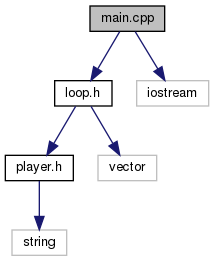
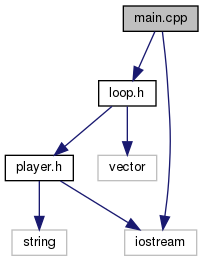
Update gh-pages to output generated at b504b8e

diff --git a/player_8h_source.html b/player_8h_source.html
@@ -64,14 +64,14 @@ $(function() {
 <div class="title">player.h</div>  </div>
 </div><!--header-->
 <div class="contents">
-<div class="fragment"><div class="line"><a name="l00001"></a><span class="lineno">    1</span>&#160;</div><div class="line"><a name="l00002"></a><span class="lineno">    2</span>&#160;<span class="preprocessor">#pragma once</span></div><div class="line"><a name="l00003"></a><span class="lineno">    3</span>&#160;</div><div class="line"><a name="l00004"></a><span class="lineno">    4</span>&#160;<span class="preprocessor">#include &lt;string&gt;</span></div><div class="line"><a name="l00005"></a><span class="lineno">    5</span>&#160;</div><div class="line"><a name="l00027"></a><span class="lineno"><a class="line" href="classPlayer.html">   27</a></span>&#160;<span class="keyword">class </span><a class="code" href="classPlayer.html">Player</a></div><div class="line"><a name="l00028"></a><span class="lineno">   28</span>&#160;{</div><div class="line"><a name="l00032"></a><span class="lineno">   32</span>&#160;    std::string name;</div><div class="line"><a name="l00033"></a><span class="lineno">   33</span>&#160;</div><div class="line"><a name="l00037"></a><span class="lineno">   37</span>&#160;    <span class="keywordtype">unsigned</span> <span class="keywordtype">short</span> hp;</div><div class="line"><a name="l00038"></a><span class="lineno">   38</span>&#160;</div><div class="line"><a name="l00042"></a><span class="lineno">   42</span>&#160;    <span class="keywordtype">unsigned</span> <span class="keywordtype">short</span> damage;</div><div class="line"><a name="l00043"></a><span class="lineno">   43</span>&#160;</div><div class="line"><a name="l00047"></a><span class="lineno">   47</span>&#160;    <span class="keywordtype">float</span> attackCooldown;</div><div class="line"><a name="l00048"></a><span class="lineno">   48</span>&#160;</div><div class="line"><a name="l00052"></a><span class="lineno">   52</span>&#160;    <span class="keyword">mutable</span> <span class="keywordtype">unsigned</span> <span class="keywordtype">short</span> attackCounter = 0;</div><div class="line"><a name="l00053"></a><span class="lineno">   53</span>&#160;</div><div class="line"><a name="l00054"></a><span class="lineno">   54</span>&#160;<span class="keyword">public</span>:</div><div class="line"><a name="l00063"></a><span class="lineno">   63</span>&#160;    <span class="keyword">explicit</span> <a class="code" href="classPlayer.html#a940a6646b327cc6fdc839a0c6e254c80">Player</a>(<span class="keyword">const</span> std::string &amp;name, <span class="keywordtype">unsigned</span> <span class="keywordtype">short</span> hp, <span class="keywordtype">unsigned</span> <span class="keywordtype">short</span> damage, <span class="keywordtype">float</span> attackCooldown);</div><div class="line"><a name="l00064"></a><span class="lineno">   64</span>&#160;</div><div class="line"><a name="l00073"></a><span class="lineno">   73</span>&#160;    <span class="keyword">static</span> <a class="code" href="classPlayer.html">Player</a> <a class="code" href="classPlayer.html#af42475c171bfebfb05178212278a2d6b">parseUnit</a>(<span class="keyword">const</span> std::string &amp;fileName);</div><div class="line"><a name="l00074"></a><span class="lineno">   74</span>&#160;</div><div class="line"><a name="l00078"></a><span class="lineno">   78</span>&#160;    <span class="keywordtype">void</span> <a class="code" href="classPlayer.html#afbfc37fe51d3854e241c64fee3fa1545">Print</a>() <span class="keyword">const</span>;</div><div class="line"><a name="l00079"></a><span class="lineno">   79</span>&#160;</div><div class="line"><a name="l00084"></a><span class="lineno"><a class="line" href="classPlayer.html#acdfeb90811d8a0c826d526b97eeb0d94">   84</a></span>&#160;    <span class="keyword">const</span> std::string &amp;<a class="code" href="classPlayer.html#acdfeb90811d8a0c826d526b97eeb0d94">GetName</a>()<span class="keyword"> const </span>{ <span class="keywordflow">return</span> name; };</div><div class="line"><a name="l00085"></a><span class="lineno">   85</span>&#160;</div><div class="line"><a name="l00090"></a><span class="lineno"><a class="line" href="classPlayer.html#aa69264f8bbe4ec943df625beb4ef74d1">   90</a></span>&#160;    <span class="keyword">const</span> <span class="keywordtype">short</span> <a class="code" href="classPlayer.html#aa69264f8bbe4ec943df625beb4ef74d1">GetHP</a>()<span class="keyword"> const </span>{ <span class="keywordflow">return</span> hp; };</div><div class="line"><a name="l00091"></a><span class="lineno">   91</span>&#160;</div><div class="line"><a name="l00099"></a><span class="lineno">   99</span>&#160;    <a class="code" href="classPlayer.html">Player</a> <a class="code" href="classPlayer.html#af678cc1b99baa17c5cc429467f8667d2">DuelWith</a>(<a class="code" href="classPlayer.html">Player</a> *other);</div><div class="line"><a name="l00100"></a><span class="lineno">  100</span>&#160;</div><div class="line"><a name="l00108"></a><span class="lineno">  108</span>&#160;    <span class="keyword">static</span> <a class="code" href="classPlayer.html">Player</a> *<a class="code" href="classPlayer.html#a6dd1bbcc1db65fce465819c1f4f4dec5">GetNextAttacker</a>(<a class="code" href="classPlayer.html">Player</a> *prev, <a class="code" href="classPlayer.html">Player</a> *other);</div><div class="line"><a name="l00109"></a><span class="lineno">  109</span>&#160;</div><div class="line"><a name="l00110"></a><span class="lineno">  110</span>&#160;<span class="keyword">private</span>:</div><div class="line"><a name="l00118"></a><span class="lineno">  118</span>&#160;    <span class="keywordtype">bool</span> hit(<a class="code" href="classPlayer.html">Player</a> *otherPlayer) <span class="keyword">const</span>;</div><div class="line"><a name="l00119"></a><span class="lineno">  119</span>&#160;</div><div class="line"><a name="l00124"></a><span class="lineno">  124</span>&#160;    <span class="keywordtype">float</span> getNextAttack() <span class="keyword">const</span>;</div><div class="line"><a name="l00125"></a><span class="lineno">  125</span>&#160;};</div><div class="ttc" id="classPlayer_html_a940a6646b327cc6fdc839a0c6e254c80"><div class="ttname"><a href="classPlayer.html#a940a6646b327cc6fdc839a0c6e254c80">Player::Player</a></div><div class="ttdeci">Player(const std::string &amp;name, unsigned short hp, unsigned short damage, float attackCooldown)</div><div class="ttdef"><b>Definition:</b> player.cpp:7</div></div>
-<div class="ttc" id="classPlayer_html_af42475c171bfebfb05178212278a2d6b"><div class="ttname"><a href="classPlayer.html#af42475c171bfebfb05178212278a2d6b">Player::parseUnit</a></div><div class="ttdeci">static Player parseUnit(const std::string &amp;fileName)</div><div class="ttdef"><b>Definition:</b> player.cpp:11</div></div>
-<div class="ttc" id="classPlayer_html_acdfeb90811d8a0c826d526b97eeb0d94"><div class="ttname"><a href="classPlayer.html#acdfeb90811d8a0c826d526b97eeb0d94">Player::GetName</a></div><div class="ttdeci">const std::string &amp; GetName() const</div><div class="ttdef"><b>Definition:</b> player.h:84</div></div>
-<div class="ttc" id="classPlayer_html_afbfc37fe51d3854e241c64fee3fa1545"><div class="ttname"><a href="classPlayer.html#afbfc37fe51d3854e241c64fee3fa1545">Player::Print</a></div><div class="ttdeci">void Print() const</div><div class="ttdef"><b>Definition:</b> player.cpp:68</div></div>
-<div class="ttc" id="classPlayer_html_af678cc1b99baa17c5cc429467f8667d2"><div class="ttname"><a href="classPlayer.html#af678cc1b99baa17c5cc429467f8667d2">Player::DuelWith</a></div><div class="ttdeci">Player DuelWith(Player *other)</div><div class="ttdef"><b>Definition:</b> player.cpp:73</div></div>
-<div class="ttc" id="classPlayer_html_aa69264f8bbe4ec943df625beb4ef74d1"><div class="ttname"><a href="classPlayer.html#aa69264f8bbe4ec943df625beb4ef74d1">Player::GetHP</a></div><div class="ttdeci">const short GetHP() const</div><div class="ttdef"><b>Definition:</b> player.h:90</div></div>
-<div class="ttc" id="classPlayer_html"><div class="ttname"><a href="classPlayer.html">Player</a></div><div class="ttdoc">It defines a RPG attacker Player. </div><div class="ttdef"><b>Definition:</b> player.h:27</div></div>
-<div class="ttc" id="classPlayer_html_a6dd1bbcc1db65fce465819c1f4f4dec5"><div class="ttname"><a href="classPlayer.html#a6dd1bbcc1db65fce465819c1f4f4dec5">Player::GetNextAttacker</a></div><div class="ttdeci">static Player * GetNextAttacker(Player *prev, Player *other)</div><div class="ttdef"><b>Definition:</b> player.cpp:101</div></div>
+<div class="fragment"><div class="line"><a name="l00001"></a><span class="lineno">    1</span>&#160;</div><div class="line"><a name="l00002"></a><span class="lineno">    2</span>&#160;<span class="preprocessor">#pragma once</span></div><div class="line"><a name="l00003"></a><span class="lineno">    3</span>&#160;</div><div class="line"><a name="l00004"></a><span class="lineno">    4</span>&#160;<span class="preprocessor">#include &lt;string&gt;</span></div><div class="line"><a name="l00005"></a><span class="lineno">    5</span>&#160;<span class="preprocessor">#include &lt;iostream&gt;</span></div><div class="line"><a name="l00006"></a><span class="lineno">    6</span>&#160;</div><div class="line"><a name="l00028"></a><span class="lineno"><a class="line" href="classPlayer.html">   28</a></span>&#160;<span class="keyword">class </span><a class="code" href="classPlayer.html">Player</a></div><div class="line"><a name="l00029"></a><span class="lineno">   29</span>&#160;{</div><div class="line"><a name="l00033"></a><span class="lineno">   33</span>&#160;    <span class="keyword">const</span> std::string name;</div><div class="line"><a name="l00034"></a><span class="lineno">   34</span>&#160;</div><div class="line"><a name="l00038"></a><span class="lineno">   38</span>&#160;    <span class="keywordtype">unsigned</span> <span class="keywordtype">short</span> hp;</div><div class="line"><a name="l00039"></a><span class="lineno">   39</span>&#160;</div><div class="line"><a name="l00043"></a><span class="lineno">   43</span>&#160;    <span class="keyword">const</span> <span class="keywordtype">unsigned</span> <span class="keywordtype">short</span> damage;</div><div class="line"><a name="l00044"></a><span class="lineno">   44</span>&#160;</div><div class="line"><a name="l00048"></a><span class="lineno">   48</span>&#160;    <span class="keyword">const</span> <span class="keywordtype">float</span> attackCooldown;</div><div class="line"><a name="l00049"></a><span class="lineno">   49</span>&#160;</div><div class="line"><a name="l00053"></a><span class="lineno">   53</span>&#160;    <span class="keyword">mutable</span> <span class="keywordtype">unsigned</span> <span class="keywordtype">short</span> attackCounter = 0;</div><div class="line"><a name="l00054"></a><span class="lineno">   54</span>&#160;</div><div class="line"><a name="l00055"></a><span class="lineno">   55</span>&#160;<span class="keyword">public</span>:</div><div class="line"><a name="l00064"></a><span class="lineno">   64</span>&#160;    <span class="keyword">explicit</span> <a class="code" href="classPlayer.html#a940a6646b327cc6fdc839a0c6e254c80">Player</a>(<span class="keyword">const</span> std::string &amp;name, <span class="keywordtype">unsigned</span> <span class="keywordtype">short</span> hp, <span class="keywordtype">unsigned</span> <span class="keywordtype">short</span> damage, <span class="keywordtype">float</span> attackCooldown);</div><div class="line"><a name="l00065"></a><span class="lineno">   65</span>&#160;</div><div class="line"><a name="l00074"></a><span class="lineno">   74</span>&#160;    <span class="keyword">static</span> <a class="code" href="classPlayer.html">Player</a> <a class="code" href="classPlayer.html#af42475c171bfebfb05178212278a2d6b">parseUnit</a>(<span class="keyword">const</span> std::string &amp;fileName);</div><div class="line"><a name="l00075"></a><span class="lineno">   75</span>&#160;</div><div class="line"><a name="l00080"></a><span class="lineno">   80</span>&#160;    <span class="keywordtype">void</span> <a class="code" href="classPlayer.html#a51a630be3249659ae790976c601870be">Print</a>(std::ostream &amp;stream) <span class="keyword">const</span>;</div><div class="line"><a name="l00081"></a><span class="lineno">   81</span>&#160;</div><div class="line"><a name="l00086"></a><span class="lineno"><a class="line" href="classPlayer.html#acdfeb90811d8a0c826d526b97eeb0d94">   86</a></span>&#160;    <span class="keyword">const</span> std::string &amp;<a class="code" href="classPlayer.html#acdfeb90811d8a0c826d526b97eeb0d94">GetName</a>()<span class="keyword"> const </span>{ <span class="keywordflow">return</span> name; };</div><div class="line"><a name="l00087"></a><span class="lineno">   87</span>&#160;</div><div class="line"><a name="l00092"></a><span class="lineno"><a class="line" href="classPlayer.html#aa69264f8bbe4ec943df625beb4ef74d1">   92</a></span>&#160;    <span class="keyword">const</span> <span class="keywordtype">short</span> <a class="code" href="classPlayer.html#aa69264f8bbe4ec943df625beb4ef74d1">GetHP</a>()<span class="keyword"> const </span>{ <span class="keywordflow">return</span> hp; };</div><div class="line"><a name="l00093"></a><span class="lineno">   93</span>&#160;</div><div class="line"><a name="l00101"></a><span class="lineno">  101</span>&#160;    <a class="code" href="classPlayer.html">Player</a> <a class="code" href="classPlayer.html#af678cc1b99baa17c5cc429467f8667d2">DuelWith</a>(<a class="code" href="classPlayer.html">Player</a> *other);</div><div class="line"><a name="l00102"></a><span class="lineno">  102</span>&#160;</div><div class="line"><a name="l00110"></a><span class="lineno">  110</span>&#160;    <span class="keyword">static</span> <a class="code" href="classPlayer.html">Player</a> *<a class="code" href="classPlayer.html#a6dd1bbcc1db65fce465819c1f4f4dec5">GetNextAttacker</a>(<a class="code" href="classPlayer.html">Player</a> *prev, <a class="code" href="classPlayer.html">Player</a> *other);</div><div class="line"><a name="l00111"></a><span class="lineno">  111</span>&#160;</div><div class="line"><a name="l00112"></a><span class="lineno">  112</span>&#160;<span class="keyword">private</span>:</div><div class="line"><a name="l00120"></a><span class="lineno">  120</span>&#160;    <span class="keywordtype">bool</span> hit(<a class="code" href="classPlayer.html">Player</a> *otherPlayer) <span class="keyword">const</span>;</div><div class="line"><a name="l00121"></a><span class="lineno">  121</span>&#160;</div><div class="line"><a name="l00126"></a><span class="lineno">  126</span>&#160;    <span class="keywordtype">float</span> getNextAttack() <span class="keyword">const</span>;</div><div class="line"><a name="l00127"></a><span class="lineno">  127</span>&#160;};</div><div class="ttc" id="classPlayer_html_a940a6646b327cc6fdc839a0c6e254c80"><div class="ttname"><a href="classPlayer.html#a940a6646b327cc6fdc839a0c6e254c80">Player::Player</a></div><div class="ttdeci">Player(const std::string &amp;name, unsigned short hp, unsigned short damage, float attackCooldown)</div><div class="ttdef"><b>Definition:</b> player.cpp:6</div></div>
+<div class="ttc" id="classPlayer_html_af42475c171bfebfb05178212278a2d6b"><div class="ttname"><a href="classPlayer.html#af42475c171bfebfb05178212278a2d6b">Player::parseUnit</a></div><div class="ttdeci">static Player parseUnit(const std::string &amp;fileName)</div><div class="ttdef"><b>Definition:</b> player.cpp:10</div></div>
+<div class="ttc" id="classPlayer_html_acdfeb90811d8a0c826d526b97eeb0d94"><div class="ttname"><a href="classPlayer.html#acdfeb90811d8a0c826d526b97eeb0d94">Player::GetName</a></div><div class="ttdeci">const std::string &amp; GetName() const</div><div class="ttdef"><b>Definition:</b> player.h:86</div></div>
+<div class="ttc" id="classPlayer_html_af678cc1b99baa17c5cc429467f8667d2"><div class="ttname"><a href="classPlayer.html#af678cc1b99baa17c5cc429467f8667d2">Player::DuelWith</a></div><div class="ttdeci">Player DuelWith(Player *other)</div><div class="ttdef"><b>Definition:</b> player.cpp:72</div></div>
+<div class="ttc" id="classPlayer_html_a51a630be3249659ae790976c601870be"><div class="ttname"><a href="classPlayer.html#a51a630be3249659ae790976c601870be">Player::Print</a></div><div class="ttdeci">void Print(std::ostream &amp;stream) const</div><div class="ttdef"><b>Definition:</b> player.cpp:67</div></div>
+<div class="ttc" id="classPlayer_html_aa69264f8bbe4ec943df625beb4ef74d1"><div class="ttname"><a href="classPlayer.html#aa69264f8bbe4ec943df625beb4ef74d1">Player::GetHP</a></div><div class="ttdeci">const short GetHP() const</div><div class="ttdef"><b>Definition:</b> player.h:92</div></div>
+<div class="ttc" id="classPlayer_html"><div class="ttname"><a href="classPlayer.html">Player</a></div><div class="ttdoc">It defines a RPG attacker Player. </div><div class="ttdef"><b>Definition:</b> player.h:28</div></div>
+<div class="ttc" id="classPlayer_html_a6dd1bbcc1db65fce465819c1f4f4dec5"><div class="ttname"><a href="classPlayer.html#a6dd1bbcc1db65fce465819c1f4f4dec5">Player::GetNextAttacker</a></div><div class="ttdeci">static Player * GetNextAttacker(Player *prev, Player *other)</div><div class="ttdef"><b>Definition:</b> player.cpp:100</div></div>
 </div><!-- fragment --></div><!-- contents -->
 <!-- start footer part -->
 <hr class="footer"/><address class="footer"><small>

diff --git a/classPlayer.html b/classPlayer.html
@@ -78,8 +78,8 @@ $(function() {
 Public Member Functions</h2></td></tr>
 <tr class="memitem:a940a6646b327cc6fdc839a0c6e254c80"><td class="memItemLeft" align="right" valign="top">&#160;</td><td class="memItemRight" valign="bottom"><a class="el" href="classPlayer.html#a940a6646b327cc6fdc839a0c6e254c80">Player</a> (const std::string &amp;name, unsigned short hp, unsigned short damage, float attackCooldown)</td></tr>
 <tr class="separator:a940a6646b327cc6fdc839a0c6e254c80"><td class="memSeparator" colspan="2">&#160;</td></tr>
-<tr class="memitem:afbfc37fe51d3854e241c64fee3fa1545"><td class="memItemLeft" align="right" valign="top">void&#160;</td><td class="memItemRight" valign="bottom"><a class="el" href="classPlayer.html#afbfc37fe51d3854e241c64fee3fa1545">Print</a> () const</td></tr>
-<tr class="separator:afbfc37fe51d3854e241c64fee3fa1545"><td class="memSeparator" colspan="2">&#160;</td></tr>
+<tr class="memitem:a51a630be3249659ae790976c601870be"><td class="memItemLeft" align="right" valign="top">void&#160;</td><td class="memItemRight" valign="bottom"><a class="el" href="classPlayer.html#a51a630be3249659ae790976c601870be">Print</a> (std::ostream &amp;stream) const</td></tr>
+<tr class="separator:a51a630be3249659ae790976c601870be"><td class="memSeparator" colspan="2">&#160;</td></tr>
 <tr class="memitem:acdfeb90811d8a0c826d526b97eeb0d94"><td class="memItemLeft" align="right" valign="top">const std::string &amp;&#160;</td><td class="memItemRight" valign="bottom"><a class="el" href="classPlayer.html#acdfeb90811d8a0c826d526b97eeb0d94">GetName</a> () const</td></tr>
 <tr class="separator:acdfeb90811d8a0c826d526b97eeb0d94"><td class="memSeparator" colspan="2">&#160;</td></tr>
 <tr class="memitem:aa69264f8bbe4ec943df625beb4ef74d1"><td class="memItemLeft" align="right" valign="top">const short&#160;</td><td class="memItemRight" valign="bottom"><a class="el" href="classPlayer.html#aa69264f8bbe4ec943df625beb4ef74d1">GetHP</a> () const</td></tr>
@@ -329,8 +329,8 @@ Static Public Member Functions</h2></td></tr>
 
 </div>
 </div>
-<a id="afbfc37fe51d3854e241c64fee3fa1545"></a>
-<h2 class="memtitle"><span class="permalink"><a href="#afbfc37fe51d3854e241c64fee3fa1545">&#9670;&nbsp;</a></span>Print()</h2>
+<a id="a51a630be3249659ae790976c601870be"></a>
+<h2 class="memtitle"><span class="permalink"><a href="#a51a630be3249659ae790976c601870be">&#9670;&nbsp;</a></span>Print()</h2>
 
 <div class="memitem">
 <div class="memproto">
@@ -338,12 +338,18 @@ Static Public Member Functions</h2></td></tr>
         <tr>
           <td class="memname">void Player::Print </td>
           <td>(</td>
-          <td class="paramname"></td><td>)</td>
+          <td class="paramtype">std::ostream &amp;&#160;</td>
+          <td class="paramname"><em>stream</em></td><td>)</td>
           <td> const</td>
         </tr>
       </table>
 </div><div class="memdoc">
-<p>Prints to the output the player's name and current status. </p>
+<p>Prints to the output the player's name and current status. </p><dl class="params"><dt>Parameters</dt><dd>
+  <table class="params">
+    <tr><td class="paramname">stream</td><td>The destination output stream </td></tr>
+  </table>
+  </dd>
+</dl>
 
 </div>
 </div>

diff --git a/classPlayer-members.html b/classPlayer-members.html
@@ -73,7 +73,7 @@ $(function() {
   <tr><td class="entry"><a class="el" href="classPlayer.html#a6dd1bbcc1db65fce465819c1f4f4dec5">GetNextAttacker</a>(Player *prev, Player *other)</td><td class="entry"><a class="el" href="classPlayer.html">Player</a></td><td class="entry"><span class="mlabel">static</span></td></tr>
   <tr class="even"><td class="entry"><a class="el" href="classPlayer.html#af42475c171bfebfb05178212278a2d6b">parseUnit</a>(const std::string &amp;fileName)</td><td class="entry"><a class="el" href="classPlayer.html">Player</a></td><td class="entry"><span class="mlabel">static</span></td></tr>
   <tr><td class="entry"><a class="el" href="classPlayer.html#a940a6646b327cc6fdc839a0c6e254c80">Player</a>(const std::string &amp;name, unsigned short hp, unsigned short damage, float attackCooldown)</td><td class="entry"><a class="el" href="classPlayer.html">Player</a></td><td class="entry"><span class="mlabel">explicit</span></td></tr>
-  <tr class="even"><td class="entry"><a class="el" href="classPlayer.html#afbfc37fe51d3854e241c64fee3fa1545">Print</a>() const</td><td class="entry"><a class="el" href="classPlayer.html">Player</a></td><td class="entry"></td></tr>
+  <tr class="even"><td class="entry"><a class="el" href="classPlayer.html#a51a630be3249659ae790976c601870be">Print</a>(std::ostream &amp;stream) const</td><td class="entry"><a class="el" href="classPlayer.html">Player</a></td><td class="entry"></td></tr>
 </table></div><!-- contents -->
 <!-- start footer part -->
 <hr class="footer"/><address class="footer"><small>

diff --git a/loop_8h_source.html b/loop_8h_source.html
@@ -68,7 +68,7 @@ $(function() {
 <div class="ttc" id="classLoop_html_a96730b3501efeae91df7555b07a2e8be"><div class="ttname"><a href="classLoop.html#a96730b3501efeae91df7555b07a2e8be">Loop::ShowPlayers</a></div><div class="ttdeci">void ShowPlayers() const</div><div class="ttdef"><b>Definition:</b> loop.cpp:18</div></div>
 <div class="ttc" id="classLoop_html"><div class="ttname"><a href="classLoop.html">Loop</a></div><div class="ttdoc">The main engine of the RPG game. </div><div class="ttdef"><b>Definition:</b> loop.h:26</div></div>
 <div class="ttc" id="classLoop_html_ad33498fb3b6382991b69dc31508e4b02"><div class="ttname"><a href="classLoop.html#ad33498fb3b6382991b69dc31508e4b02">Loop::Loop</a></div><div class="ttdeci">Loop(char **argv)</div><div class="ttdef"><b>Definition:</b> loop.cpp:5</div></div>
-<div class="ttc" id="classPlayer_html"><div class="ttname"><a href="classPlayer.html">Player</a></div><div class="ttdoc">It defines a RPG attacker Player. </div><div class="ttdef"><b>Definition:</b> player.h:27</div></div>
+<div class="ttc" id="classPlayer_html"><div class="ttname"><a href="classPlayer.html">Player</a></div><div class="ttdoc">It defines a RPG attacker Player. </div><div class="ttdef"><b>Definition:</b> player.h:28</div></div>
 </div><!-- fragment --></div><!-- contents -->
 <!-- start footer part -->
 <hr class="footer"/><address class="footer"><small>

diff --git a/main_8cpp.html b/main_8cpp.html
@@ -76,7 +76,7 @@ Include dependency graph for main.cpp:</div>
 <div class="dyncontent">
 <div class="center"><img src="main_8cpp__incl.png" border="0" usemap="#main_8cpp" alt=""/></div>
 <map name="main_8cpp" id="main_8cpp">
-<area shape="rect" id="node2" href="loop_8h_source.html" title="loop.h" alt="" coords="55,80,112,107"/>
+<area shape="rect" id="node2" href="loop_8h_source.html" title="loop.h" alt="" coords="99,80,156,107"/>
 <area shape="rect" id="node3" href="player_8h_source.html" title="player.h" alt="" coords="5,155,73,181"/>
 </map>
 </div>

diff --git a/search/all_4.js b/search/all_4.js
@@ -3,5 +3,5 @@ var searchData=
   ['parseunit',['parseUnit',['../classPlayer.html#af42475c171bfebfb05178212278a2d6b',1,'Player']]],
   ['play',['Play',['../classLoop.html#ad319ce2237838f0c5b28cf8c8ecf2203',1,'Loop']]],
   ['player',['Player',['../classPlayer.html',1,'Player'],['../classPlayer.html#a940a6646b327cc6fdc839a0c6e254c80',1,'Player::Player()']]],
-  ['print',['Print',['../classPlayer.html#afbfc37fe51d3854e241c64fee3fa1545',1,'Player']]]
+  ['print',['Print',['../classPlayer.html#a51a630be3249659ae790976c601870be',1,'Player']]]
 ];

diff --git a/search/functions_3.js b/search/functions_3.js
@@ -3,5 +3,5 @@ var searchData=
   ['parseunit',['parseUnit',['../classPlayer.html#af42475c171bfebfb05178212278a2d6b',1,'Player']]],
   ['play',['Play',['../classLoop.html#ad319ce2237838f0c5b28cf8c8ecf2203',1,'Loop']]],
   ['player',['Player',['../classPlayer.html#a940a6646b327cc6fdc839a0c6e254c80',1,'Player']]],
-  ['print',['Print',['../classPlayer.html#afbfc37fe51d3854e241c64fee3fa1545',1,'Player']]]
+  ['print',['Print',['../classPlayer.html#a51a630be3249659ae790976c601870be',1,'Player']]]
 ];

diff --git a/functions.html b/functions.html
@@ -86,7 +86,7 @@ $(function() {
 : <a class="el" href="classPlayer.html#a940a6646b327cc6fdc839a0c6e254c80">Player</a>
 </li>
 <li>Print()
-: <a class="el" href="classPlayer.html#afbfc37fe51d3854e241c64fee3fa1545">Player</a>
+: <a class="el" href="classPlayer.html#a51a630be3249659ae790976c601870be">Player</a>
 </li>
 <li>ShowPlayers()
 : <a class="el" href="classLoop.html#a96730b3501efeae91df7555b07a2e8be">Loop</a>

diff --git a/functions_func.html b/functions_func.html
@@ -86,7 +86,7 @@ $(function() {
 : <a class="el" href="classPlayer.html#a940a6646b327cc6fdc839a0c6e254c80">Player</a>
 </li>
 <li>Print()
-: <a class="el" href="classPlayer.html#afbfc37fe51d3854e241c64fee3fa1545">Player</a>
+: <a class="el" href="classPlayer.html#a51a630be3249659ae790976c601870be">Player</a>
 </li>
 <li>ShowPlayers()
 : <a class="el" href="classLoop.html#a96730b3501efeae91df7555b07a2e8be">Loop</a>
